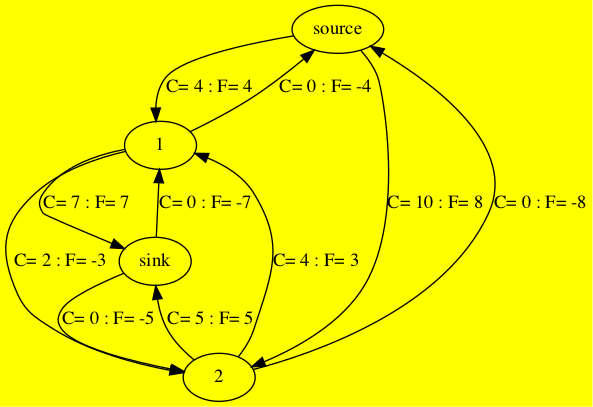
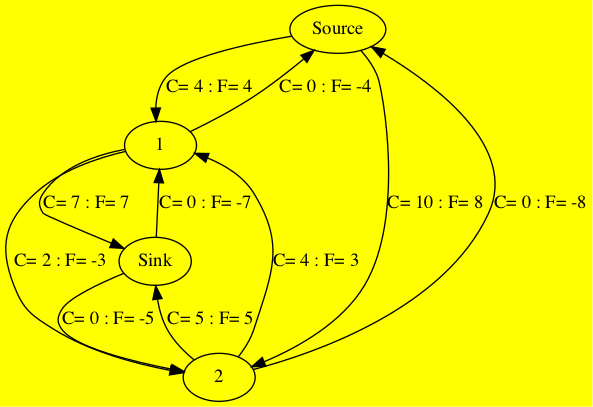
final touch 1

diff --git a/pythons/imageLoadTry.py b/pythons/imageLoadTry.py
@@ -1,14 +1,16 @@
 # Import required libraries
+from ctypes import alignment
 from tkinter import *
+from turtle import bgcolor
 from PIL import ImageTk, Image
 
 # Create an instance of tkinter window
 def loadimg():
       win = Tk()
+      win.title("Edmond-Karp Visualisation")
 
       # Define the geometry of the window
       win.geometry("1500x1000")                 # changed so as to fit whole window (instead of line28, which isn't working on mac)
-
       frame = Frame(win, width=600, height=400)
       frame.place(anchor='e', relx=0.5, rely=0.5)
 
@@ -20,9 +22,13 @@ def loadimg():
 
       # Create a Label Widget to display the text or Image
       label = Label(frame, image = img)
+      labell = Label(frame, text='Flow Graph', font="arial 15 underline")
+      labell.pack()
       label.pack()
-
+      
       label2 = Label(frame2, image=img2)
+      label22 = Label(frame2, text='Residual Graph', font="arial 15 underline")
+      label22.pack()
       label2.pack()
 
       # slogan2 = Button(frame,
@@ -30,10 +36,18 @@ def loadimg():
       #              fg="green",
       #              command=win.destroy)
       slogan2 = Button(win,
-                   text="next",
+                   text="Next",
                    fg="green",
+                   font="arial 20",
                    command=win.destroy)
       slogan2.pack(side=TOP)
+
+      slogan22 = Button(win,
+                   text="Exit",
+                   fg = "RED",
+                   font="arial 20",
+                   command=exit)
+      slogan22.pack(side=BOTTOM)
 
       # win.attributes('-fullscreen', True)
       win.mainloop()

diff --git a/pythons/Edmond_Karp.py b/pythons/Edmond_Karp.py
@@ -11,18 +11,15 @@ def max_flow(C, s, t):
         Edmond_Karp_Residual.makeGraph(C, F, s, t)
         imageLoadTry.loadimg()
         path = bfs(C, F, s, t)
-        print (path)
         while path != None:
             flow = min(C[u][v] - F[u][v] for u,v in path)
             for u,v in path:
                 F[u][v] += flow
                 F[v][u] -= flow
-            print(F)
             Edmond_Karp_Vish.makeGraph(C, F, s, t)
             Edmond_Karp_Residual.makeGraph(C, F, s, t)
             imageLoadTry.loadimg()
             path = bfs(C, F, s, t)
-            print (path)
         return sum(F[s][i] for i in range(n))
 
 #find path by using BFS
@@ -36,23 +33,22 @@ def bfs(C, F, s, t):
             for v in range(len(C)):
                     if(C[u][v]-F[u][v]>0) and v not in paths:
                         paths[v] = paths[u]+[(u,v)]
-                        # print (paths)
                         if v == t:
                             return paths[v]
                         queue.append(v)
         return None
     
 # make a capacity graph
-# node   s   a   b   t
-C = [[ 0, 4, 10, 0],  # s
-     [ 0, 0, 2, 7],  # o
-     [ 0, 4, 0, 5],  # p
-     [ 0, 0, 0, 0]]  # t
+# node 0  1  2   3
+C = [[ 0, 4, 10, 0],  # 0
+     [ 0, 0, 2,  7],  # 1
+     [ 0, 4, 0,  5],  # 2
+     [ 0, 0, 0,  0]]  # 3
 
 
 
-source = 0  # A
-sink = 3    # F
+source = 0  
+sink = 3    
 max_flow_value = max_flow(C, source, sink)
 print ("Edmonds-Karp algorithm")
 print ("max_flow_value is: ", max_flow_value)

diff --git a/pythons/Edmond_Karp_Residual.py b/pythons/Edmond_Karp_Residual.py
@@ -11,8 +11,8 @@ def makeGraph(C, F, s, t):
     for i in range(n):
         my_node = pydot.Node(str(i))
         graph.add_node(my_node)
-    graph.get_node(str(s))[0].set_label("source")
-    graph.get_node(str(t))[0].set_label("sink")
+    graph.get_node(str(s))[0].set_label("Source")
+    graph.get_node(str(t))[0].set_label("Sink")
 
     for i in range(n):
         for j in range(n):

diff --git a/pythons/Edmond_Karp_Vish.py b/pythons/Edmond_Karp_Vish.py
@@ -11,8 +11,8 @@ def makeGraph(C, F, s, t):
     for i in range(n):
         my_node = pydot.Node(str(i))
         graph.add_node(my_node)
-    graph.get_node(str(s))[0].set_label("source")
-    graph.get_node(str(t))[0].set_label("sink")
+    graph.get_node(str(s))[0].set_label("Source")
+    graph.get_node(str(t))[0].set_label("Sink")
 
     for i in range(n):
         for j in range(n):
